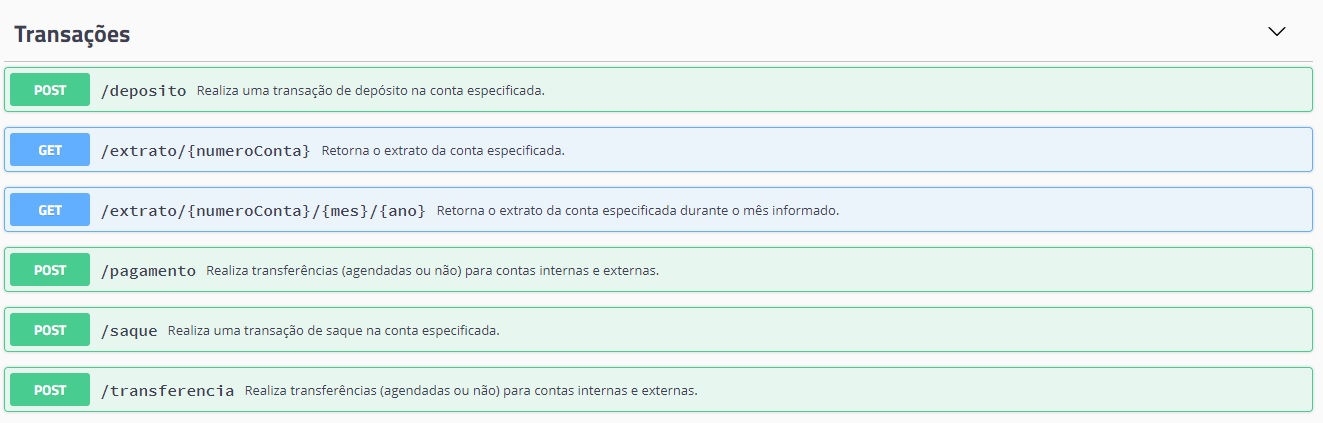
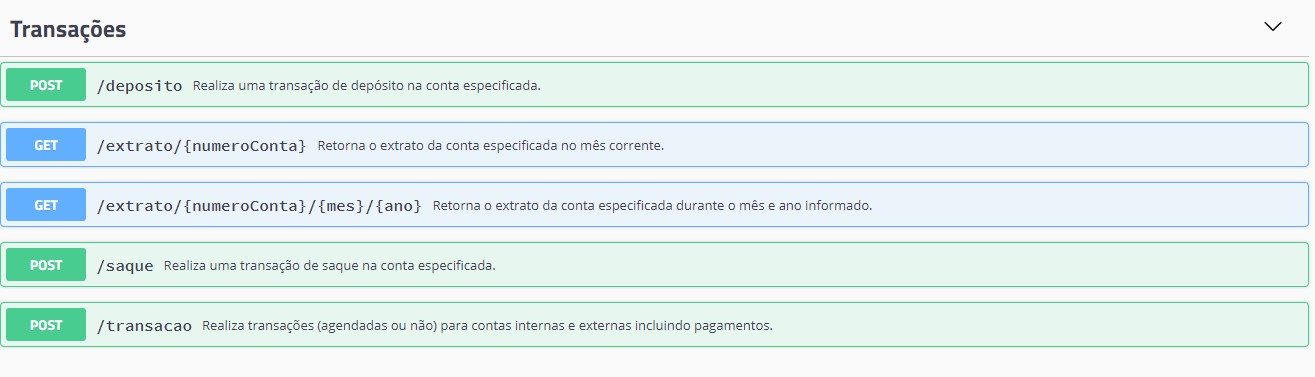
Descrições das seções de Endpoints, Swagger e Postman finalizadas.

Changed region(s): [[0.0, 0.1459, 0.9977, 0.992], [0.0, 0.0584, 0.0935, 0.1167], [0.9354, 0.0584, 0.9665, 0.0875]]

diff --git a/README.md b/README.md
@@ -37,7 +37,7 @@ Esse projeto consiste em uma API para gerenciar as transações de um banco fict
 - [ ] A aplicação precisa ser configurada no API Gateway da AWS.
 - [ ] A aplicação precisa ter no mínimo um endpoint de SNS para cadastro de emails e verificação automática.
 - [ ] A aplicação precisa ter no mínimo um Lambda.
-- [ ] Liste os endpoints no README.md
+- [X] Liste os endpoints no README.md
 - [ ] O Banco deve ser entregue em script SQL junto ao repositório.
 
 <h3 id="RQFuncionais">Requisitos Funcionais</h3>
@@ -50,13 +50,150 @@ Os requisitos funcionais desta API giram em torno de um CRUD entre clientes e su
 - O histórico de transações entre contas.
 
 <h3 id="endpoints">Endpoints</h3>
-Essa seção encontra-se em desenvolvimento.
+Os <b>endpoints</b> são literalmente pontas de um canal de comunicação. Neste caso em específico, o endpoint é uma das pontas da nossa API Bluebank, e por sua vez, essa API pode ser acessada/requisitada por uma URL que executa uma certa função quando chamada. Sendo assim, cada endpoint listado abaixo, executa um determinado trecho de código.
+
+<hr>
+<h4 align="center">Microsserviço de Clientes e Contas</h4>
+
+> Porta: 8101 <br>
+> Atributos entre chaves, indicam o parâmetro que você deve informar. <br>
+> Exemplo: /pesquisa/{cpf} -> ***/pesquisa/46033184050*** <br>
+> Nos endpoints de requisição do tipo ***POST*** e ***PUT*** você precisa informar os dados requeridos no corpo JSON. <br>
+
+<h4 align="center">Endpoints relacionados ao Cliente</h4>
+
+***[GET]*** Lista todos os clientes cadastrados:
+```
+/clientes
+```
+***[GET]*** Pesquisa um cliente pelo CPF:
+```
+/cliente/{cpf}
+```
+***[POST]*** Cadastra um novo cliente:
+```
+/cliente
+```
+***[PUT]*** Atualiza os dados pessoais de um cliente:
+```
+/cliente/{cpf}
+```
+***[DELETE]*** Deleta um cliente da base de dados:
+```
+/cliente/{cpf}
+```
+
+<h4 align="center">Endpoints relacionados a Conta Bancária</h4>
+
+***[GET]*** Retorna uma conta ao buscar por CPF:
+```
+/conta/cpf/{cpf}
+```
+***[GET]*** Retorna uma conta ao buscar por Número da conta:
+```
+/conta/numero/{numero}
+```
+> :warning: Os próximos dois endpoints só devem ser chamados pelo serviço de transações e não devem ser requisitados diretamente. :warning:	
+
+***[PUT]*** Adiciona valor na conta especificada:
+```
+/conta/{numero}/credita/{valor}
+```
+***[PUT]*** Diminui valor na conta especificada. 
+```
+/conta/{numero}/debita/{valor}
+```
+<hr>
+<h4 align="center">Microsserviço de Transações</h4>
+
+> Porta: 8102
+
+<h4 align="center">Endpoint relacionado ao  Agendamento</h4>
+
+***[GET]*** Efetiva as transações agendadas do dia:
+```
+/agendamento/efetivar
+```
+
+<h4 align="center">Endpoints relacionados as Transações</h4>
+
+***[GET]*** Retorna o extrato da conta especificada no mês corrente:
+```
+/extrato/{numeroConta}
+```
+***[GET]*** Retorna o extrato da conta especificada durante o mês informado:
+```
+/extrato/{numeroConta}/{mes}/{ano}
+```
+***[POST]*** Realiza uma transação de depósito na conta especificada:
+```
+/deposito
+```
+***[POST]*** Realiza uma transação de saque na conta especificada:
+```
+/saque
+```
+***[POST]*** Realiza transações (agendadas ou não) para contas internas e externas incluindo pagamentos:
+```
+/transacao
+```
+<h3 id="swagger">Swagger</h3>
+O <a href="https://swagger.io/">Swagger(OpenAPI)</a> é uma especificação aberta para definição/descrição de APIs REST. Você pode achar mais informações sobre o Swagger <a href="https://www.ibm.com/docs/pt-br/integration-bus/10.0?topic=ssmkhh-10-0-0-com-ibm-etools-mft-doc-bi12018--htm">aqui</a> e pode testar uma demonstração ao vivo do Swagger aqui: <a href="https://petstore.swagger.io/">Swagger Petstore</a>.<br>
+Utilizamos o <a href="https://github.com/swagger-api/swagger-ui">Swagger UI</a> para documentar, visualizar e requisitar/acessar a nossa API em um navegador Web.
+<h4 align="center">Microsserviços de clientes e contas</h4>
+<img src="Arquivos/img/swagger/Swagger-cliente.jpg"></img>
+<img src="Arquivos/img/swagger/Swagger-conta.jpg"></img>
+<img src="Arquivos/img/swagger/Swagger-agendamento.jpg"></img>
+<img src="Arquivos/img/swagger/Swagger-transacaoes.jpg"></img>
+
+Note que há alguns links além das descrições gerais do projeto e das descrições de cada endpoint.
+- O primeiro link refere-se a visualização de um documento JSON com todos os endpoints da nossa API. Posteriormente, iremos importar esses arquivos no Postman, clique <a href="Arquivos/json">aqui</a> para acessá-los ou salve diretamente do seu navegador clicando em: botão direito-> Salvar como...
+- O segundo link lhe direciona para este repositório :smile:
+- O terceiro link, refere-se a licença Apache.
+
+Para interagir com a API através do Swagger UI, clique em um dos endpoints e clique em "Try it Out" (alguns endpoints possuem descrições mais assertivas).
+<img src="Arquivos/img/swagger/Swagger-transacao-descricao.jpg"></img>
+
+Adicione as informações necessárias e clique em "Execute".
+<img src="Arquivos/img/swagger/Swagger-transacao-TryItOut.jpg"></img>
+
+Prontinho !! Você interagiu com a nossa API. :smile: :partying_face:	
+
+Cada endpoint possui um conjunto de códigos do status de retorno.
+<img src="Arquivos/img/swagger/Swagger-transacao-codes.jpg"></img>
+
+Caso não tenha ficado claro, você pode acessar esses links para sanar suas dúvidas:
+- <a href="https://developer.mozilla.org/pt-BR/docs/Web/HTTP/Status">Códigos de status de respostas HTTP</a>
+- <a href="https://medium.com/@thiagogrespi/testes-de-api-parte-1-entendendo-e-botando-a-m%C3%A3o-na-massa-com-postman-b365923b83e1">Testes de API</a>
 
 <h3 id="postman">Postman</h3>
-Essa seção encontra-se em desenvolvimento.
+O Postman é uma ferramenta utilizada para análisar,testar e desenvolver APIs REST por meio do envio de requisições HTTP, você pode consumir serviços de APIs locais ou da internet. Para mais informações sobre a ferramenta veja: <a href="https://enotas.com.br/blog/postman/">O que é o Postman?</a> e <a href="https://www.devmedia.com.br/testando-apis-web-com-o-postman/37264">Testando APIs Web com o Postman</a>.
 
-<h3 id="swagger">Swagger</h3>
-Essa seção encontra-se em desenvolvimento.
+Em seguida, iremos mostrar como fazer requisições na nossa API utilizando o Postman. 
+- Primeiro, importe os <a href="Arquivos/json">arquivos</a> gerados pelo <a href="#swagger">Swagger</a>.
+	- Abra o Postman, clique em `File` -> `Import` -> `File` -> `Upload files`. 
+<img src="Arquivos/img/postman/Postman-import.jpg"></img>
+
+	- Informe os arquivos que serão importados e depois clique em `Import`.
+<img src="Arquivos/img/postman/Postman-import2.jpg"></img>
+
+	- Depois de importar o arquivo, clique em `Colections`.
+<img src="Arquivos/img/postman/Postman-api.jpg"></img>
+
+	- Agora precisamos modificar nossa váriavel de ambiente. Selecione a collection destacada em laranja -> Clique em "Variables" -> Mude o valor de "Current Value" para `localhost:8101`. Para salvar clique nos 3 pontinhos destacados acima de "Variables" e depois clique em "Save". Repita o processo para a segunda collection, mudando o valor para `localhost:8102`.
+<img src="Arquivos/img/postman/Postman-variaveisDeAmbiente.jpg"></img>
+
+	- Prontinho !! A partir daqui você consegue testar a nossa API ! Para isso, escolha uma das requisições e clique em `Send` :smile:.
+<img src="Arquivos/img/postman/Postman-requisicao1.jpg"></img>
+
+	- Algumas requisições do tipo "GET" e `PUT`exigem que você informe algum parâmetro na URL.<br>Substitua os parâmetros indicados por `:` pelos valores reais. Nesse caso o parâmetro era `:numeroConta`.
+<img src="Arquivos/img/postman/Postman-requisicao2.jpg"></img>
+
+	- Lembre-se que em requisições do tipo `POST` e `PUT` os valores são inseridos no corpo JSON.<br>Para isso, clique em `Body` -> `Raw` -> `JSON`. Agora é só substituir os valores !
+<img src="Arquivos/img/postman/Postman-requisicao3.jpg"></img>
+
+A seção de <a href="#endpoints">Endpoints</a> e a documentação do <a href="#swagger">Swagger</a> podem ser suas aliadas aqui :grin:.
+Você também acessar a documentação do Postman <a href="https://learning.postman.com/docs/getting-started/introduction/">aqui</a>.
 
 <p align="right"><a href="#topo">Você pode voltar ao topo clicando aqui ↑</a></p>
 <h1 id="desenvolvimento" align="center">Desenvolvimento</h1>
